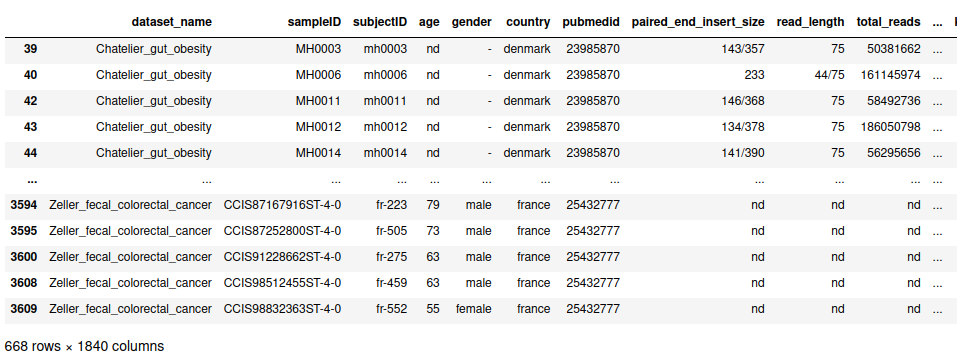
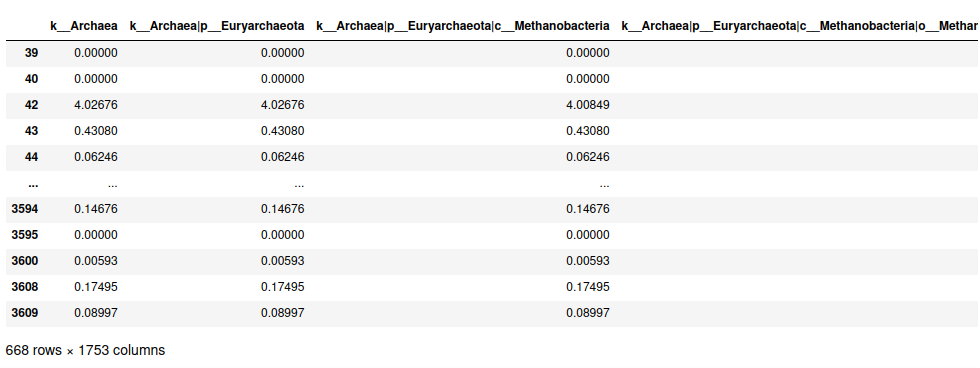
added stuff

diff --git a/episode-04-exercises.md b/episode-04-exercises.md
@@ -267,7 +267,24 @@ y = data.pop('disease')
 X = data
 ```
 
-So, let's talk about the columns of `X` matrix. The features of this dataset were generated from [MetaPhlAn2](https://huttenhower.sph.harvard.edu/metaphlan2/) toolkit. MetaPhlAn (Metagenomic Phylogenetic Analysis) is a computational tool for profiling the composition of microbial communities from metagenomic shotgun sequencing data. So, in a nutshell, the toolkit takes as input shotgun sequencing data and generates an accurate estimation of organismal relative abundance (in terms of number of cells rather than fraction of reads). These quantified estimations are expressed as features in `X` matrix, in those features whose names begin with the prefix `k_`, for example `k__Archaea`, `k__Archaea|p__Euryarchaeota`, `k__Archaea|p__Euryarchaeota|c__Methanobacteria` etc. Suffixes 'k\_', 'p\_', 'c\_' etc refer to different [taxonomic ranks](https://en.wikipedia.org/wiki/Taxonomic_rank). Hence, these columns correspond to different organisms that were identified within the metagenomic sample. The rest of data matrix was filled with metadata columns, which were appended as initial columns. Therefore, around the first 210 columns are metadata, and the rest of them are features. However, we're gonna keep metadata columns, because we want to combine numerical and categorical features in this exercise, and check how this combination affects our classification model. 
+So, let's talk about the columns of `X` matrix. The features of this dataset were generated from [MetaPhlAn2](https://huttenhower.sph.harvard.edu/metaphlan2/) toolkit. MetaPhlAn (Metagenomic Phylogenetic Analysis) is a computational tool for profiling the composition of microbial communities from metagenomic shotgun sequencing data. So, in a nutshell, the toolkit takes as input shotgun sequencing data and generates an accurate estimation of organismal relative abundance (in terms of number of cells rather than fraction of reads). These quantified estimations are expressed as features in `X` matrix, in those features whose names begin with the prefix `k_`, for example `k__Archaea`, `k__Archaea|p__Euryarchaeota`, `k__Archaea|p__Euryarchaeota|c__Methanobacteria` etc. Suffixes 'k\_', 'p\_', 'c\_' etc refer to different [taxonomic ranks](https://en.wikipedia.org/wiki/Taxonomic_rank). Hence, these columns refer to different organisms that were identified within the metagenomic sample. The rest of data matrix was filled with metadata columns, which were appended as initial columns. Therefore, around the first 210 columns are metadata, and the rest of them are features. At first, let's pop out those columns, because when dealing with metadata, the metadata-labels might be strictly correlated with the output. For example, if our target disease is `cancer`, a possible metadata-label might refer to the type of cancer, otherwise it might take a NaN value. By default, the presence of this label would strictly indicate the `cancer` label in the target, something extremly easy for the model to learn.
+
+```python
+# feature names
+feature_names = X.columns
+
+# identify species abundance features
+abundance_features = [x for x in feature_names if x.startswith('k_')]
+
+# isolate only (numerical) metagenomic features
+X = X[abundance_features]
+X
+```
+
+<p align="center">
+  <img width="969" height="363" src="exercises_images/features_ex2_e4.png">
+</p>
+
 
 Now, let's check the distribution of targets:
 
@@ -311,39 +328,17 @@ X = X[np.isin(y, ['obesity', 'ibd_ulcerative_colitis', 'cirrhosis', 'leaness', '
 y = y[np.isin(y, ['obesity', 'ibd_ulcerative_colitis', 'cirrhosis', 'leaness', 'stec2-positive', 'impaired_glucose_tolerance', 'cancer'])]
 ```
 
-Evidently, after the deletion of the majority of rows, there might have occured columns with a single value (zero variance columns). We have to remove those columns, as they provide no information at all. For this reasone, we're gonna use Sklearn's `VarianceThreshold()`, which identifies columns of variance lower than a pre-specified threshold and deletes them. At this initial stage, the `threshold` is set to 0, which is by the way the default parameter. We could possibly also extract near-zero variance features, but this will be done in further steps. The first thing we need to do is to encode categorical features into numerical ones. At first we copy the feature matrix dataframe into a new one and save the feature names into a list. Then we need to extract the categorial featuers using boolean mask:
-
-```python
-# Keeping feature names into a list
-feature_names = X.columns
-
-# copy dataframe
-X_new = X.copy()
-
-# Categorical boolean mask
-categorical_feature_mask = X_new.dtypes==object # filter categorical columns using mask and turn it into a list
-categorical_cols = X_new.columns[categorical_feature_mask].tolist()
-```
-
-`LabelEncoder()` converts each class under specified feature to a numerical value. Instantiate a `LabelEncoder()` object and apply it on each of the categorical columns:
-
-```python
-# import labelencoder
-from sklearn.preprocessing import LabelEncoder# instantiate labelencoder object
-le = LabelEncoder()
-
-# apply le on categorical feature columns
-X_new[categorical_cols] = X_new[categorical_cols].apply(lambda col: le.fit_transform(col))
-```
-
-If we plot the `X_new` dataframe, we'll verify that categorical features have successfully been encoded into numerical ones. Now, let's apply `VarianceThreshold()`.
+Evidently, after the deletion of the majority of rows, there might have occured columns with a single value (zero variance columns). We have to remove those columns, as they provide no information at all. For this reasone, we're gonna use Sklearn's `VarianceThreshold()`, which identifies columns of variance lower than a pre-specified threshold and deletes them. At this initial stage, the `threshold` is set to 0, which is by the way the default parameter. We could possibly also extract near-zero variance features, but we're gonna check this at a later stage.
 
 ```python
 from sklearn.feature_selection import VarianceThreshold
 
+# new feature names
+feature_names = X.columns
+
 # Zero variance
 selector = VarianceThreshold()
-X_nzv = selector.fit_transform(X_new)
+X_nzv = selector.fit_transform(X)
 
 # non-zero feature names
 non_zero_feature_names = [feature_names[i] for i,x in enumerate(selector.variances_) if x != 0]
@@ -354,10 +349,75 @@ X
 ```
 
 <p align="center">
-  <img width="957" height="361" src="exercises_images/X_reduced_ex2_e4.png">
+  <img width="980" height="368" src="exercises_images/X_reduced_ex2_e4.png">
 </p>
 
-Indeed, features have beed reduced, from 3513 to 1840.
+Indeed, features have beed reduced, from 3302 to 1753. We're going to apply linear-SVM to predict the target variable y. Prior to this, let's normalize our features:
+
+```python
+from sklearn.preprocessing import MinMaxScaler
+
+# feature names
+feature_names = X.columns
+
+# data normalization
+scaler = MinMaxScaler()
+X_normalized = scaler.fit_transform(X)
+X_normalized = pd.DataFrame(X_normalized, columns=feature_names)
+X_normalized
+```
+
+<p align="center">
+  <img width="977" height="362" src="exercises_images/X_normalized_ex2_e4.png">
+</p>
+
+Now, let's define a more general function that prints the classification report.
+
+```python
+from sklearn import svm
+from sklearn.model_selection import train_test_split
+from sklearn.metrics import classification_report
+
+def apply_svm(X,y):
+    
+    # train_test split
+    X_train, X_test, y_train, y_test = train_test_split(X, y, test_size=0.3, random_state=0, stratify=y)
+    
+    # model fit
+    model = svm.LinearSVC()
+    model.fit(X_train, y_train)
+    
+    # predict
+    pred = model.predict(X_test)
+    
+    # print report
+    print(classification_report(y_true=y_test,y_pred=pred))
+    return
+```
+
+And see what we have.
+
+```python
+# apply svm to initial data
+apply_svm(X,y)
+```
+
+~~~
+                            precision    recall  f1-score   support
+
+                    cancer       0.00      0.00      0.00        14
+                 cirrhosis       0.84      0.74      0.79        35
+    ibd_ulcerative_colitis       0.73      0.78      0.75        45
+impaired_glucose_tolerance       0.40      0.53      0.46        15
+                   leaness       0.42      0.52      0.47        27
+                   obesity       0.55      0.45      0.49        49
+            stec2-positive       0.61      0.88      0.72        16
+
+                  accuracy                           0.59       201
+                 macro avg       0.51      0.56      0.53       201
+              weighted avg       0.58      0.59      0.58       201
+~~~
+
 
 ### Dataset
 
